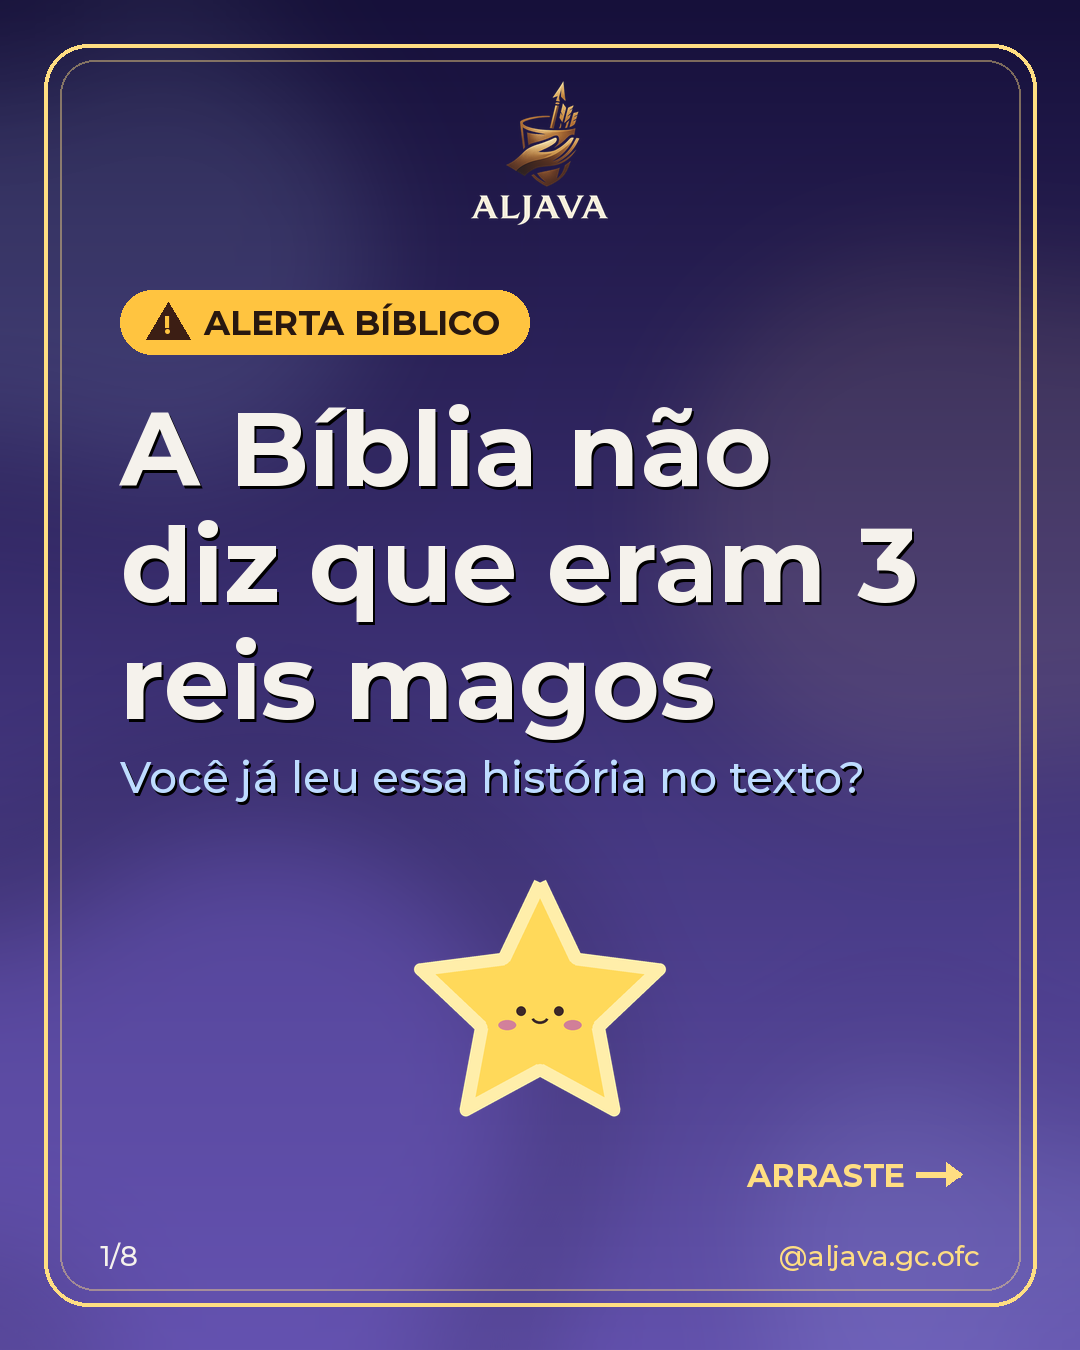
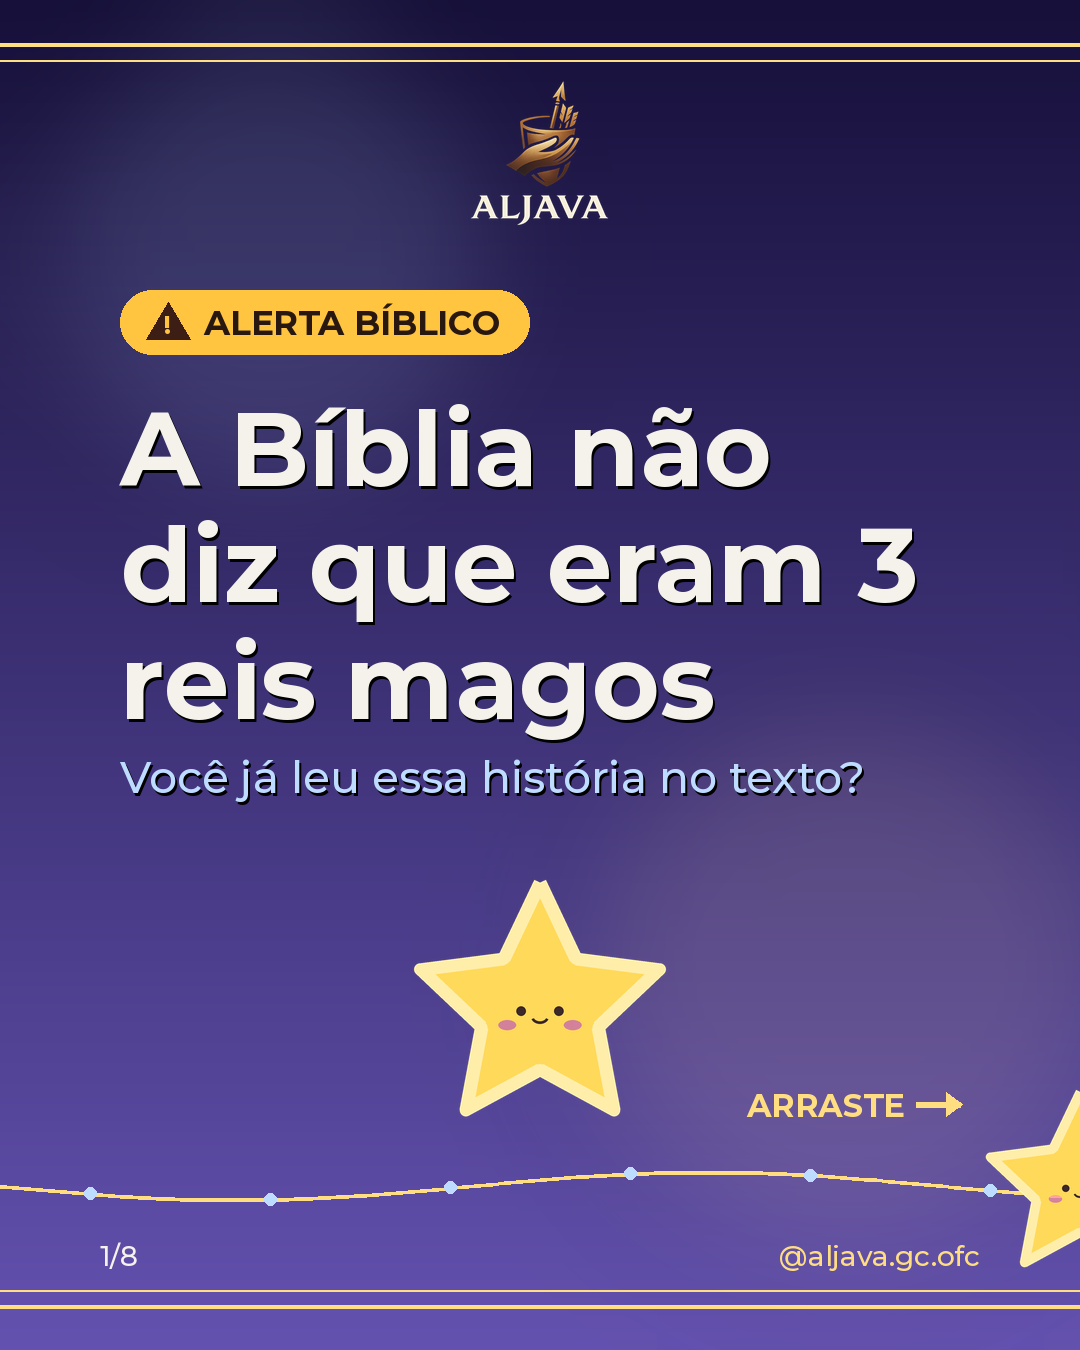
Carrossel continuo (panoramico) + exemplo
Claude-Session: https://claude.ai/code/session_01JDnYc39hybakjNnbjiRUQd

diff --git a/tools/make_carousel.py b/tools/make_carousel.py
@@ -37,6 +37,33 @@ def background(c):
 def over(img, draw_fn):
     lay = Image.new('RGBA', img.size, (0, 0, 0, 0)); draw_fn(ImageDraw.Draw(lay)); img.alpha_composite(lay)
 
+def wide_background(c, n):
+    """Fundo panoramico (n*W x H): os slides sao fatias dele, entao linha, brilhos e desenhos atravessam as emendas."""
+    import math
+    WW = W * n; img = Image.new('RGB', (WW, H)); d = ImageDraw.Draw(img)
+    for y in range(H):
+        t = y / (H - 1); d.line([(0, y), (WW, y)], fill=tuple(int(c.bg0[i] + (c.bg1[i] - c.bg0[i]) * t) for i in range(3)))
+    bl = Image.new('RGBA', (WW, H), (0, 0, 0, 0)); bd = ImageDraw.Draw(bl)
+    for k in range(n * 2):
+        x = int(W * (k + 0.5) / 2 * 1.0 + (k % 3) * 40); y = [260, 980, 560, 1180, 380, 820][k % 6]; r = [260, 300, 220, 320, 240, 280][k % 6]
+        col = [c.a2, c.a1, c.bg1, c.a2][k % 4]; a = [34, 26, 120, 30][k % 4]
+        bd.ellipse([x - r, y - r, x + r, y + r], fill=tuple(col[:3]) + (a,))
+    bl = bl.filter(ImageFilter.GaussianBlur(70)); img = Image.alpha_composite(img.convert('RGBA'), bl); d = ImageDraw.Draw(img)
+    # linhas douradas continuas no topo e na base
+    d.line([(0, 44), (WW, 44)], fill=c.a1 + (255,), width=4); d.line([(0, 60), (WW, 60)], fill=c.a1 + (110,), width=2)
+    d.line([(0, H - 44), (WW, H - 44)], fill=c.a1 + (255,), width=4); d.line([(0, H - 60), (WW, H - 60)], fill=c.a1 + (110,), width=2)
+    # fio ondulado que atravessa todos os slides (y ~ 1185)
+    pts = [(x, 1186 + 14 * math.sin(x / 150.0)) for x in range(0, WW + 1, 6)]
+    d.line(pts, fill=c.a1 + (200,), width=4, joint='curve')
+    for k in range(0, n * 6):
+        x = int(WW * (k + 0.5) / (n * 6)); y = 1186 + 14 * math.sin(x / 150.0); d.ellipse([x - 6, y - 6, x + 6, y + 6], fill=c.a2 + (255,))
+    return img
+
+def seam_art(img, c, n, kinds):
+    for k in range(1, n):
+        kind = kinds[(k - 1) % len(kinds)]; sz = 210; im = ART.draw(kind, sz)
+        img.alpha_composite(im, (int(W * k - sz / 2), int(1186 - sz / 2 - 6)))
+
 def frame(img, c):
     d = ImageDraw.Draw(img)
     d.rounded_rectangle([44, 44, W - 44, H - 44], 44, outline=c.a1 + (255,), width=4)
@@ -90,16 +117,18 @@ def footer(img, c, i):
 def art_at(img, kind, cx, cy, size):
     im = ART.draw(kind, size); img.alpha_composite(im, (int(cx - size / 2), int(cy - size / 2)))
 
-def slide(c, s, i):
-    img = background(c); frame(img, c); d = ImageDraw.Draw(img); t = s['type']
+def slide(c, s, i, bg=None):
+    if bg is None: img = background(c); frame(img, c)
+    else: img = bg
+    d = ImageDraw.Draw(img); t = s['type']
     if t == 'capa':
         logo_top(img, c, 150)
         chip(img, c, s.get('chip', 'ALERTA BÍBLICO'), X0, 290, alert=True)
         y = text_block(d, s['title'], c.bold, X0, 385, X1 - X0, 400, 104, 64, WHITE, lh=1.12)
         text_block(d, s['sub'], c.med, X0, y + 16, X1 - X0, 180, 44, 30, c.a2 + (255,))
         art_at(img, s.get('art', 'estrela'), 540, 1000, 280)
-        f = font(c.bold, 32); d.text((X1 - f.getlength('ARRASTE') - 56, 1156), 'ARRASTE', font=f, fill=c.a1 + (255,))
-        d.line([(X1 - 44, 1174), (X1, 1174)], fill=c.a1 + (255,), width=6); d.polygon([(X1 + 2, 1174), (X1 - 14, 1162), (X1 - 14, 1186)], fill=c.a1 + (255,))
+        f = font(c.bold, 32); d.text((X1 - f.getlength('ARRASTE') - 56, 1086), 'ARRASTE', font=f, fill=c.a1 + (255,))
+        d.line([(X1 - 44, 1104), (X1, 1104)], fill=c.a1 + (255,), width=6); d.polygon([(X1 + 2, 1104), (X1 - 14, 1092), (X1 - 14, 1116)], fill=c.a1 + (255,))
     else:
         logo_top(img, c, 104)
         if t == 'texto':
@@ -144,10 +173,17 @@ def slide(c, s, i):
     return img.convert('RGB')
 
 def build(spec_path, outdir):
-    spec = json.load(open(spec_path)); os.makedirs(outdir, exist_ok=True); c = Ctx(spec)
-    for i, s in enumerate(spec['slides'], 1):
-        slide(c, s, i).save(os.path.join(outdir, f'slide_{i:02d}.png'), optimize=True)
-    print('ok', len(spec['slides']), 'slides')
+    spec = json.load(open(spec_path)); os.makedirs(outdir, exist_ok=True); c = Ctx(spec); n = c.n
+    if spec.get('continuo', True):  # carrossel continuo (panoramico)
+        wide = wide_background(c, n); seam_art(wide, c, n, spec.get('seam_art', ['estrela', 'nuvem', 'ovelha', 'pomba', 'sol', 'coracao', 'arca']))
+        for i, s in enumerate(spec['slides'], 1):
+            bg = wide.crop((W * (i - 1), 0, W * i, H)).copy()
+            slide(c, s, i, bg=bg).save(os.path.join(outdir, f'slide_{i:02d}.png'), optimize=True)
+        wide.convert('RGB').resize((W * n // 4, H // 4)).save(os.path.join(outdir, 'panorama_previa.png'))
+    else:
+        for i, s in enumerate(spec['slides'], 1):
+            slide(c, s, i).save(os.path.join(outdir, f'slide_{i:02d}.png'), optimize=True)
+    print('ok', n, 'slides')
 
 if __name__ == '__main__':
     build(sys.argv[1], sys.argv[2])
